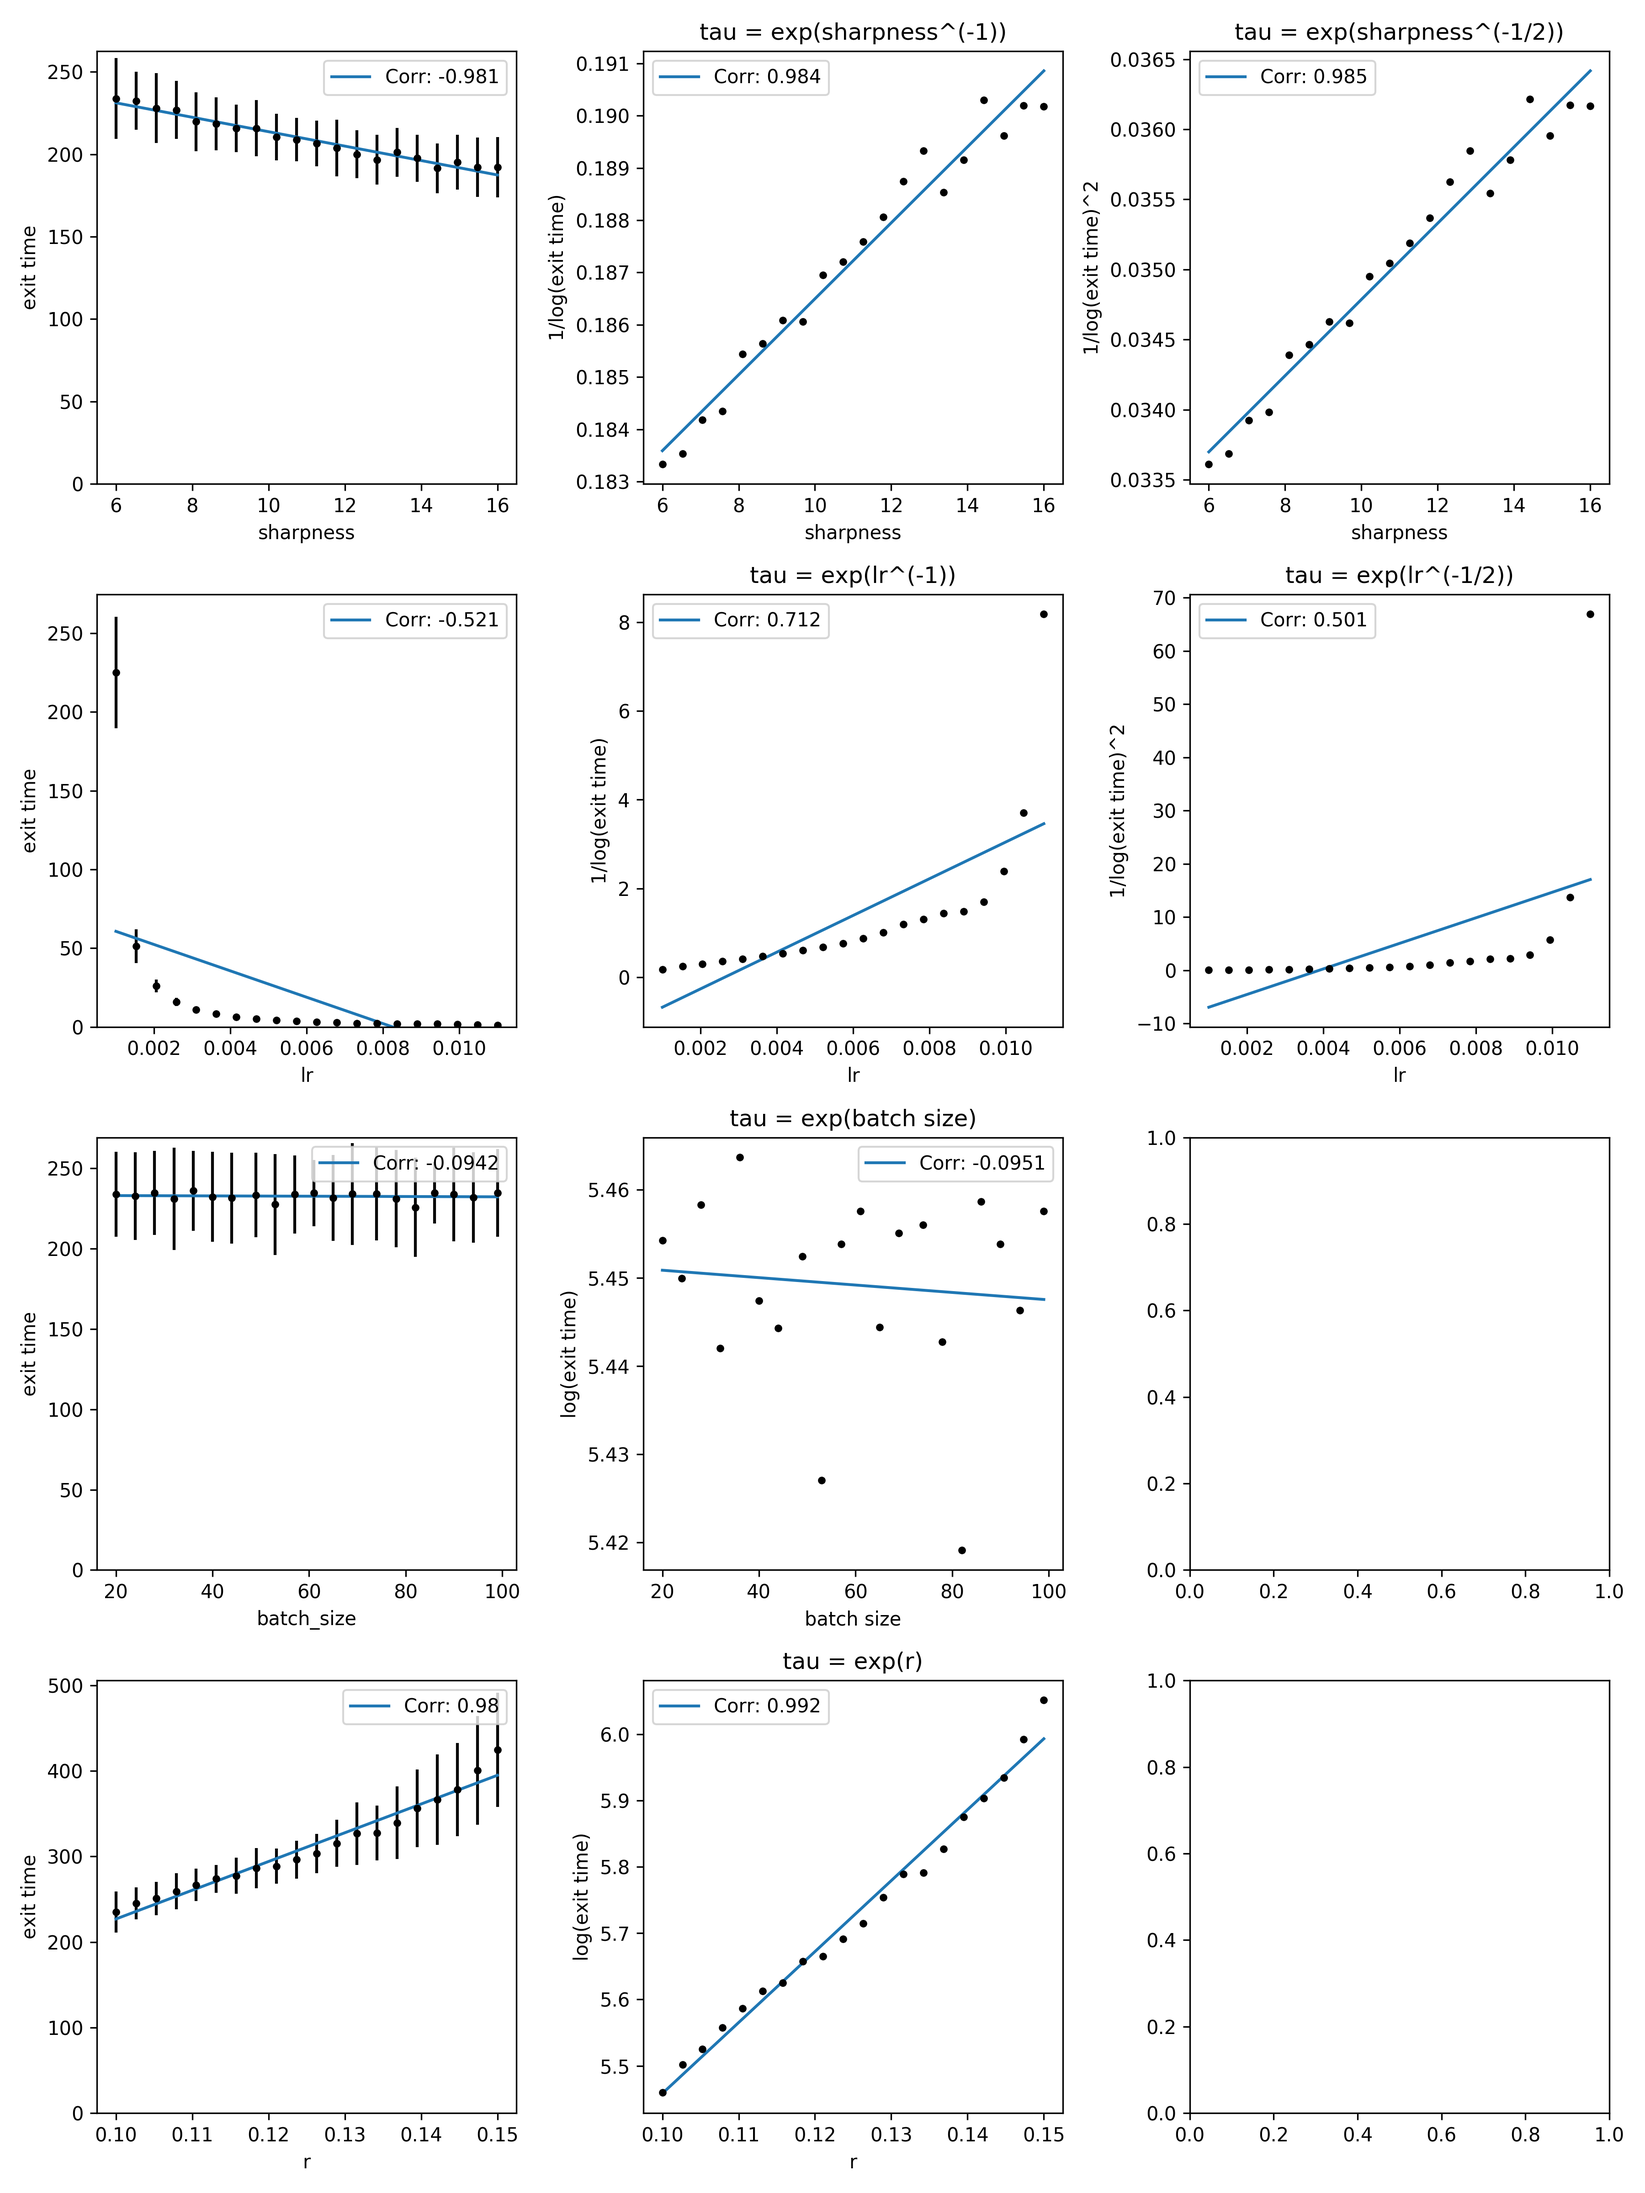
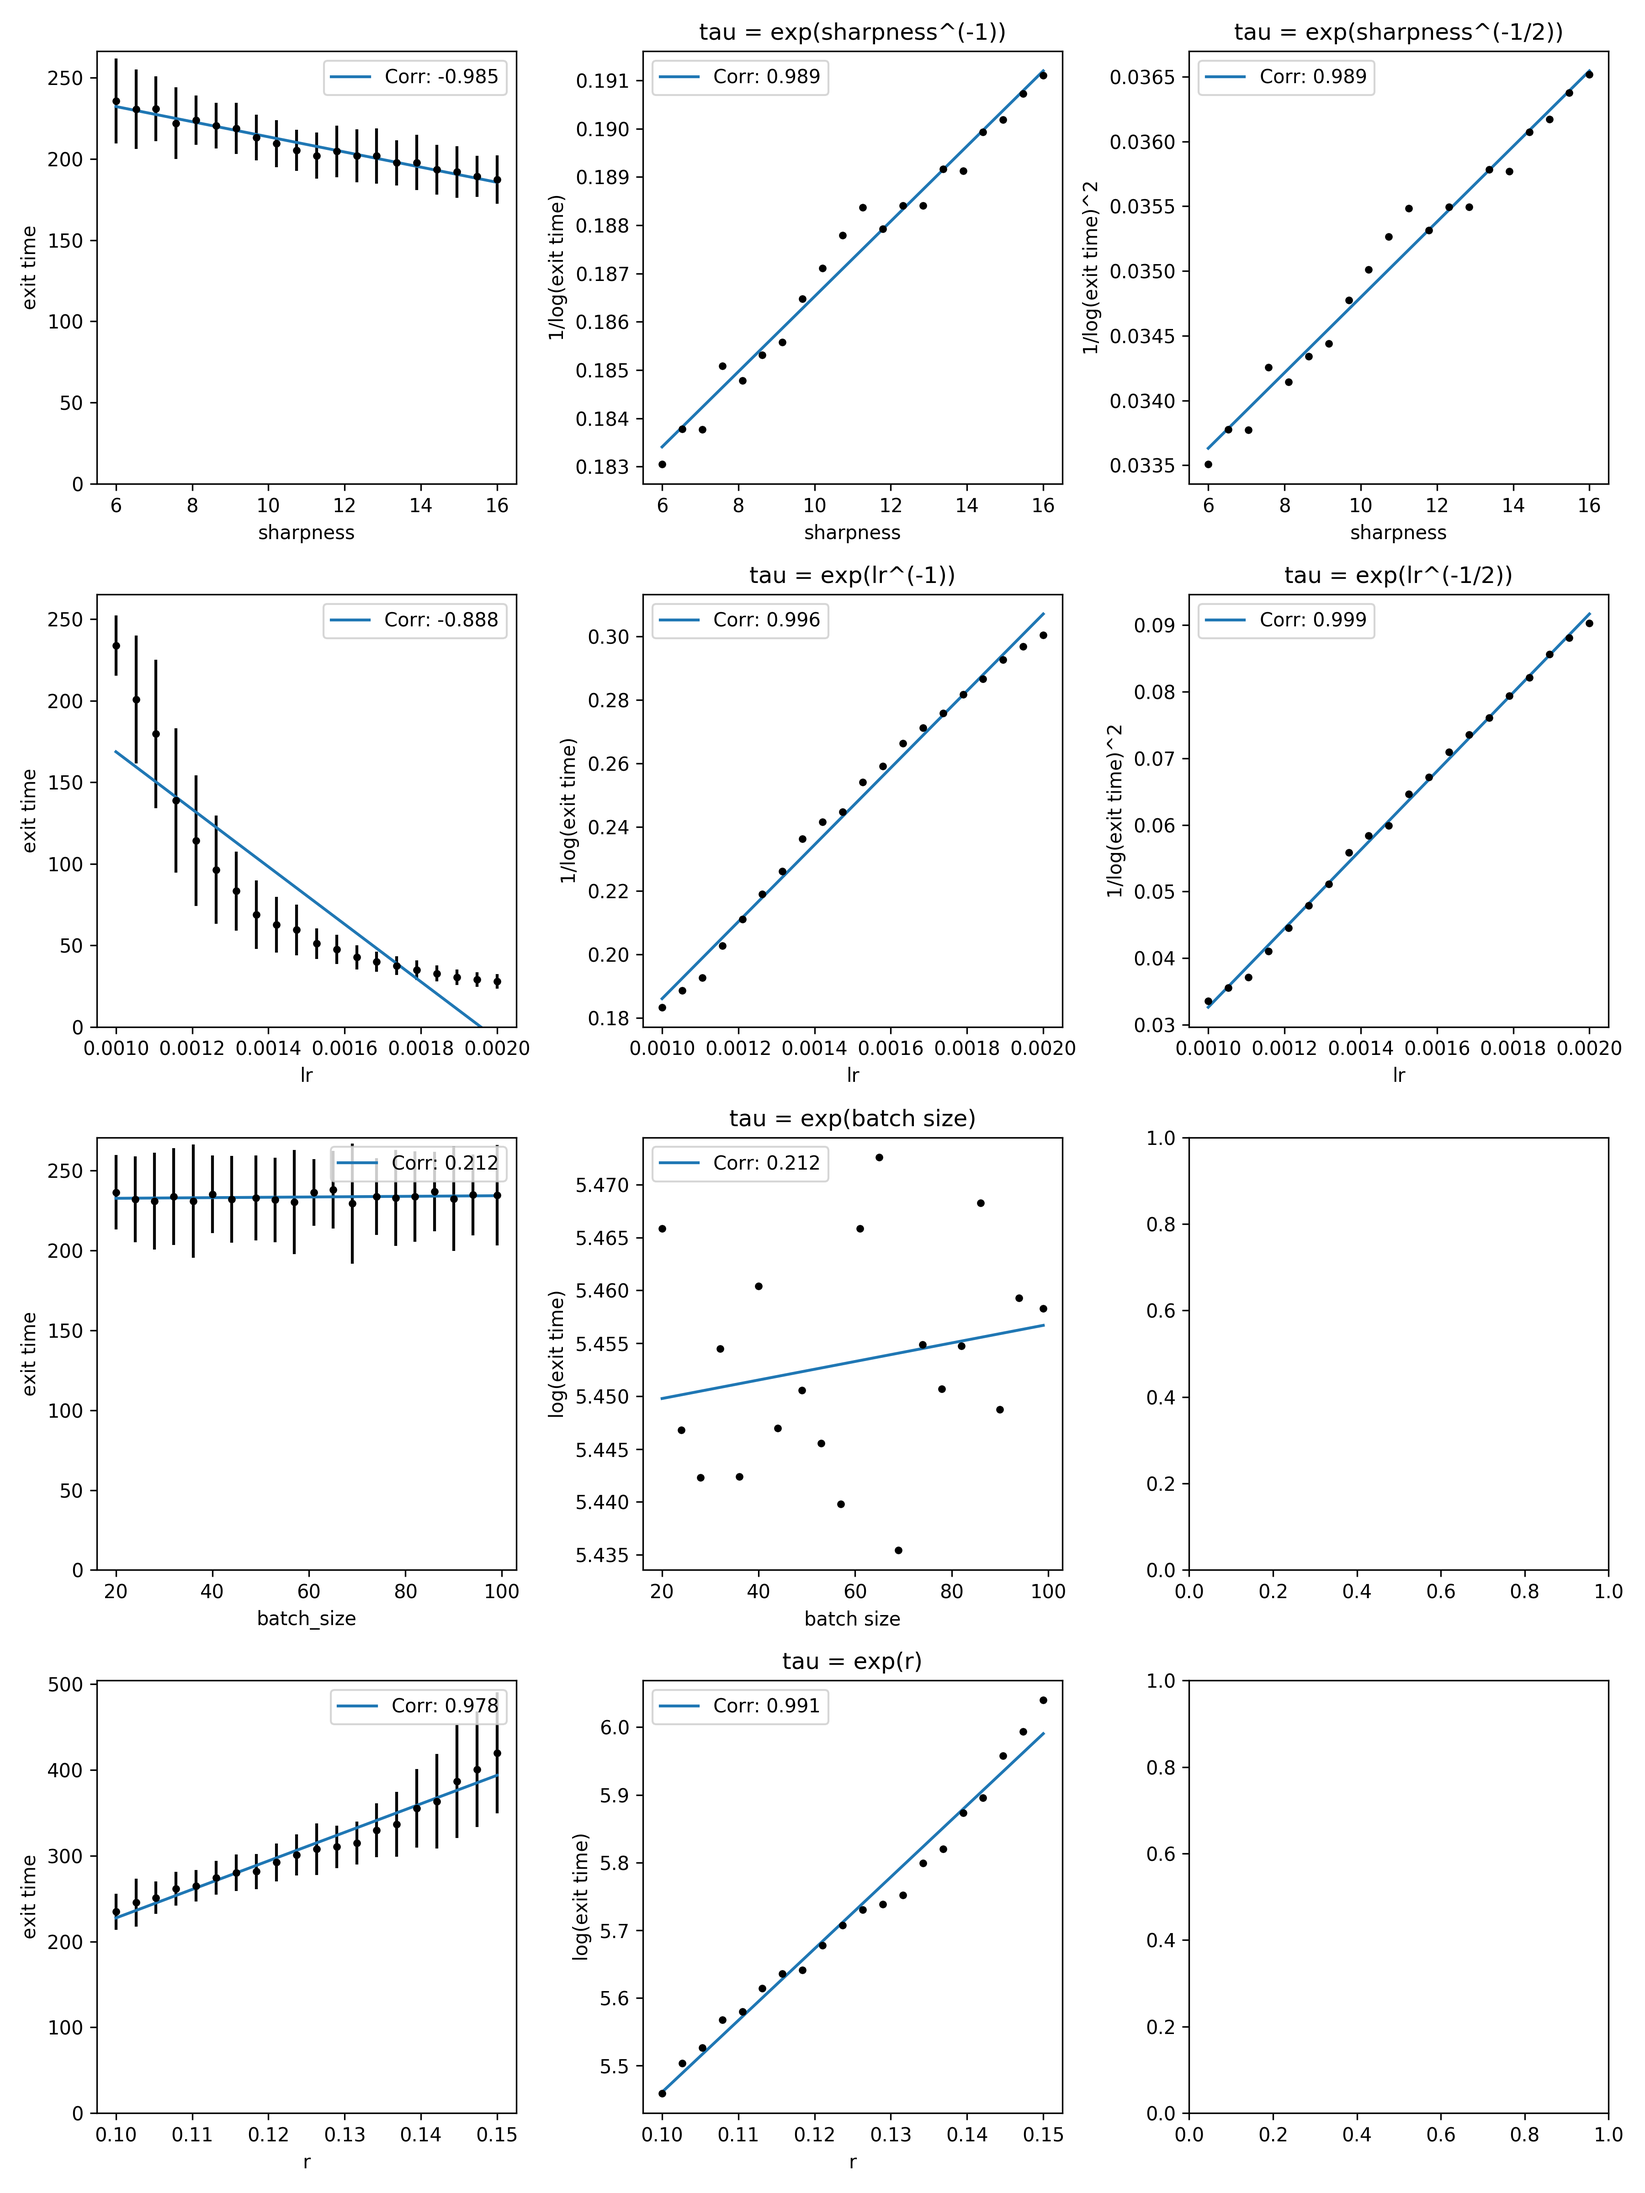
update

diff --git a/exit_time.py b/exit_time.py
@@ -325,7 +325,7 @@ def main():
     config['r_min'] = 0.1 
     config['r_interval'] = 0.05
     config['lr_min'] = 0.001
-    config['lr_interval'] = 0.01 
+    config['lr_interval'] = 0.001
     config['batch_size_min'] = 20 
     config['batch_size_interval'] = 80 
     config['exit_trial_num'] = 100 
